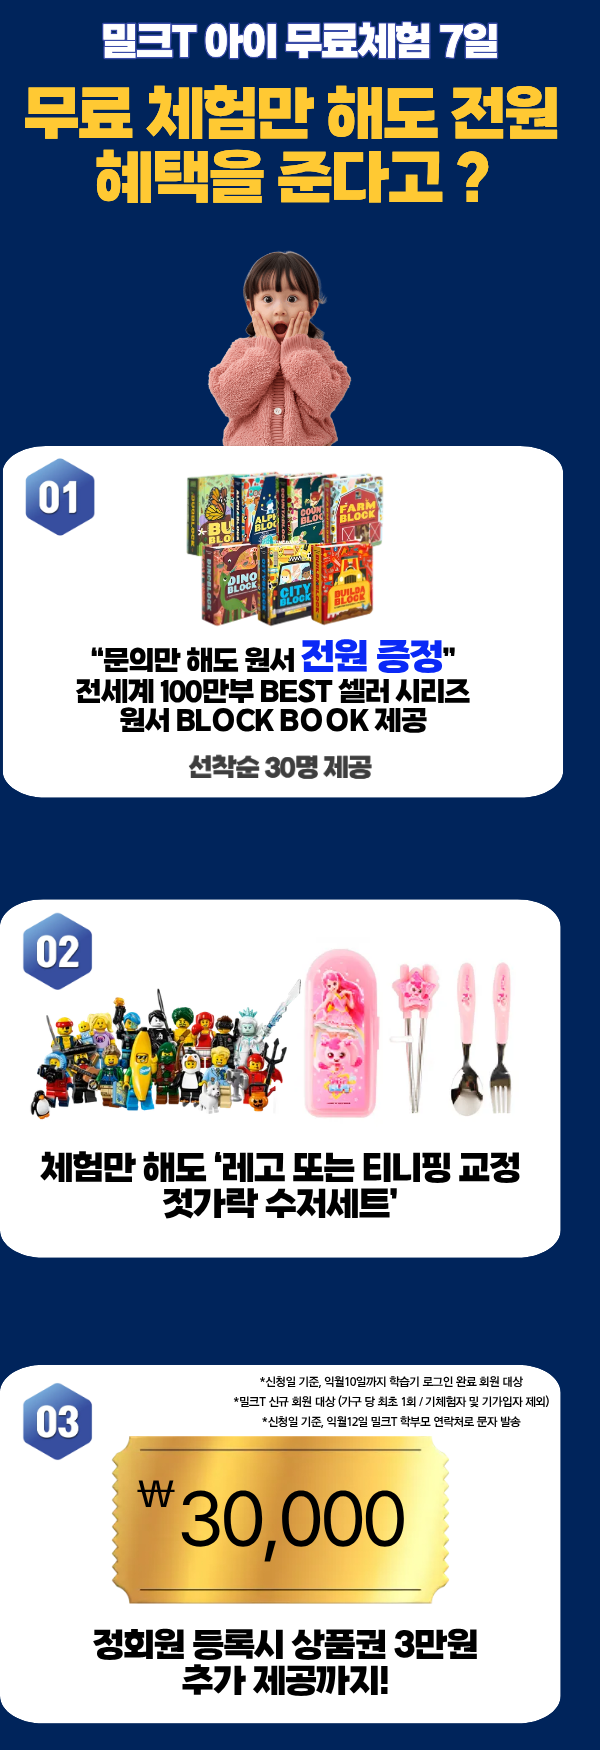
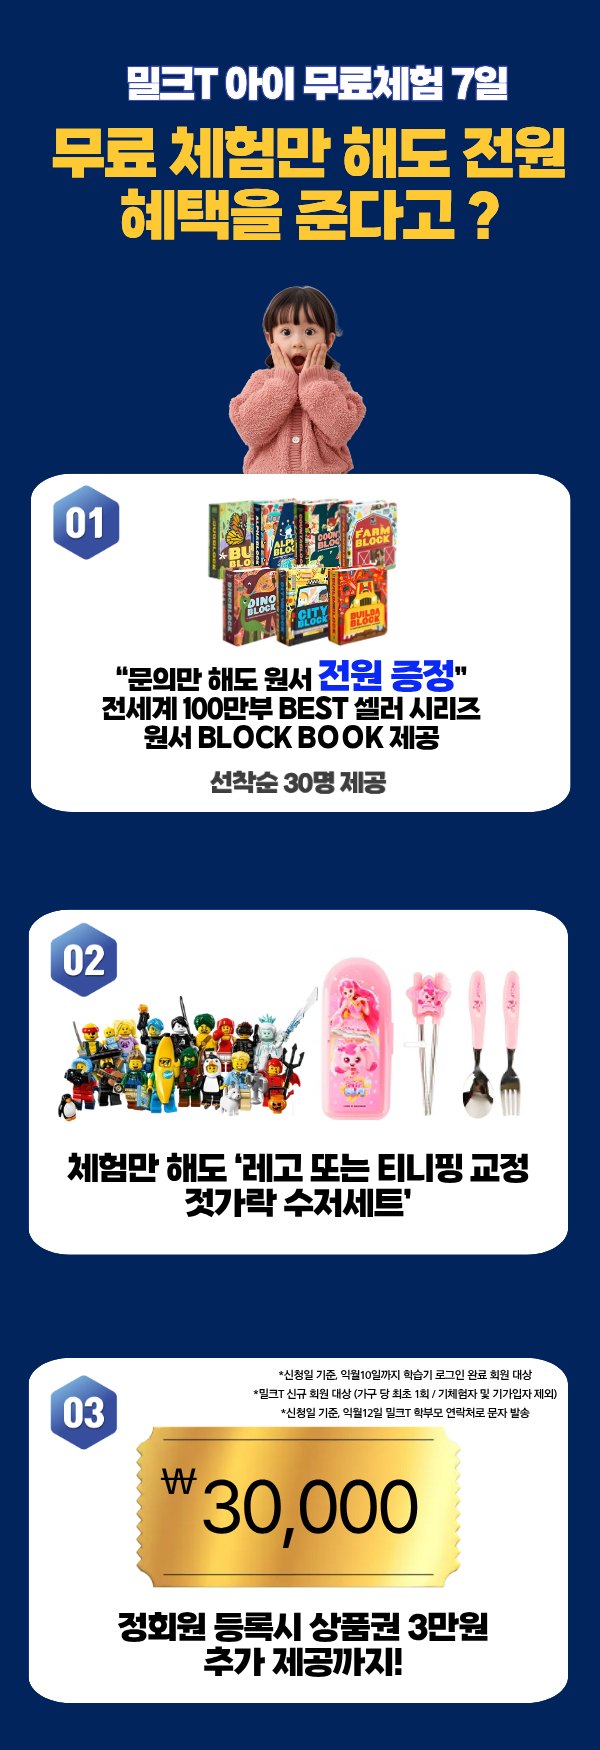
s

diff --git a/index.html b/index.html
@@ -45,28 +45,6 @@
             height: auto;
             display: block;
         }
-        .banner-img-1 {
-            position: relative;
-        }
-        .banner-img-2 {
-            position: absolute;
-            top: 0;
-            left: 0;
-        }
-        .banner-img-1 {
-            animation: fadeInOut 1s infinite;
-        }
-        .banner-img-2 {
-            animation: fadeInOut 1s infinite 0.5s;
-        }
-        @keyframes fadeInOut {
-            0%, 49.9% {
-                opacity: 1;
-            }
-            50%, 100% {
-                opacity: 0;
-            }
-        }
         .footer {
             width: 600px;
             max-width: 600px;
@@ -132,8 +110,7 @@
     </div>
     <div class="sticky-banner">
         <div class="banner-wrapper">
-            <img src="images/under-banner.png" alt="under-banner" class="banner-img-1">
-            <img src="images/under-banner2.png" alt="under-banner2" class="banner-img-2">
+            <img src="images/under-banner3.png" alt="under-banner3">
         </div>
     </div>
     <div class="footer">
